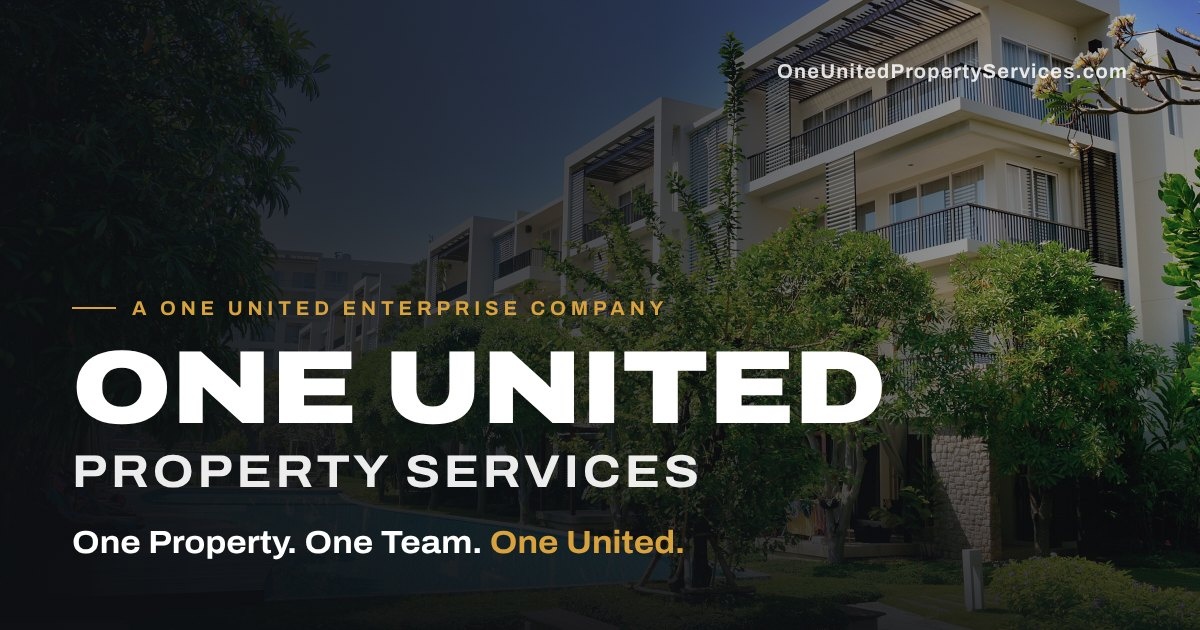
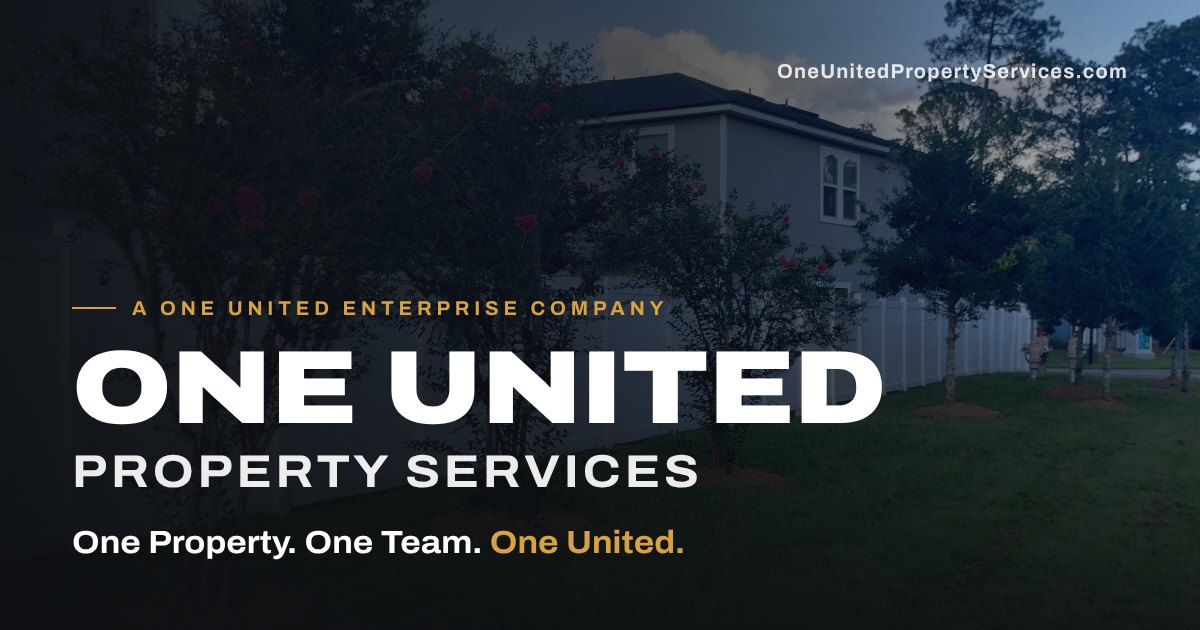
Use real Duval Landing project photos
Replace the simulated before/after pairs with six real pairs from the
July 2026 initial grounds cleanup, and use real September photos for
the homepage hero, the lawn service image, and the multifamily
property type. Photos are cropped to remove camera date stamps and
saved without EXIF/GPS metadata. The public project label stays generic
until the client approves naming the property.

The before/after slider now takes its aspect ratio from the image, and
the section and gallery layouts are adjusted for square photos.

Claude-Session: https://claude.ai/code/session_012wPi9eYFhS7NjeQacg13oa

diff --git a/src/data/beforeAfter.ts b/src/data/beforeAfter.ts
@@ -1,28 +1,32 @@
 import type { ImageMetadata } from 'astro';
-import pwBefore from '@/assets/placeholders/before-after/pressure-washing-before.jpg';
-import pwAfter from '@/assets/placeholders/before-after/pressure-washing-after.jpg';
-import paintBefore from '@/assets/placeholders/before-after/painting-before.jpg';
-import paintAfter from '@/assets/placeholders/before-after/painting-after.jpg';
-import lawnBefore from '@/assets/placeholders/before-after/landscaping-before.jpg';
-import lawnAfter from '@/assets/placeholders/before-after/landscaping-after.jpg';
-import cleanupBefore from '@/assets/placeholders/before-after/property-cleanup-before.jpg';
-import cleanupAfter from '@/assets/placeholders/before-after/property-cleanup-after.jpg';
-import turnBefore from '@/assets/placeholders/before-after/turnovers-before.jpg';
-import turnAfter from '@/assets/placeholders/before-after/turnovers-after.jpg';
+import signBefore from '@/assets/projects/duval-landing/sign-corner-before.jpg';
+import signAfter from '@/assets/projects/duval-landing/sign-corner-after.jpg';
+import curbBefore from '@/assets/projects/duval-landing/curb-corner-before.jpg';
+import curbAfter from '@/assets/projects/duval-landing/curb-corner-after.jpg';
+import utilityBefore from '@/assets/projects/duval-landing/utility-frontage-before.jpg';
+import utilityAfter from '@/assets/projects/duval-landing/utility-frontage-after.jpg';
+import islandBefore from '@/assets/projects/duval-landing/driveway-island-before.jpg';
+import islandAfter from '@/assets/projects/duval-landing/driveway-island-after.jpg';
+import frontBefore from '@/assets/projects/duval-landing/townhome-front-before.jpg';
+import frontAfter from '@/assets/projects/duval-landing/townhome-front-after.jpg';
+import fenceBefore from '@/assets/projects/duval-landing/fence-line-before.jpg';
+import fenceAfter from '@/assets/projects/duval-landing/fence-line-after.jpg';
 
 /**
- * Before & after comparisons.
+ * Before & after comparisons — real One United project photos.
  *
- * The current entries are SIMULATED placeholders (a stock "after" photo with a
- * digitally aged "before"). `placeholder: true` shows a visible disclosure label.
- * To add a real project: drop the two photos in src/assets/projects/, import them
- * here, and add an entry with `placeholder: false`.
+ * To add a project: put both photos in src/assets/projects/<project>/, import
+ * them here, and add an entry. Set `placeholder: true` only for illustrative
+ * (non-project) images; it shows a visible disclosure label.
  */
 export interface Comparison {
   id: string;
+  /** Service category, used to match comparisons to service pages. */
   category: string;
   title: string;
   caption: string;
+  /** Where/when the work was done. Shown under the slider. */
+  project: string;
   before: ImageMetadata;
   after: ImageMetadata;
   beforeAlt: string;
@@ -30,60 +34,80 @@ export interface Comparison {
   placeholder: boolean;
 }
 
+/** Shown publicly. Change to the property name only with the client's permission. */
+const PROJECT = 'Townhome community · Jacksonville, FL · Initial grounds cleanup, July 2026';
+
 export const comparisons: Comparison[] = [
   {
-    id: 'pressure-washing',
-    category: 'Pressure Washing',
-    title: 'Walkways & hardscape',
-    caption: 'Built-up grime and mildew removed from sidewalks and walkways.',
-    before: pwBefore,
-    after: pwAfter,
-    beforeAlt: 'Sidewalk and grounds darkened with grime and mildew',
-    afterAlt: 'Same sidewalk and grounds after cleaning',
-    placeholder: true,
+    id: 'driveway-island',
+    category: 'Lawn & Grounds',
+    title: 'Driveway islands',
+    caption: 'Overgrown turf islands between driveways cut back, edged, and brought down to a uniform height.',
+    project: PROJECT,
+    before: islandBefore,
+    after: islandAfter,
+    beforeAlt: 'Overgrown grass island between two townhome driveways with weeds along the concrete',
+    afterAlt: 'Same driveway island mowed short and cleanly edged',
+    placeholder: false,
   },
   {
-    id: 'painting',
-    category: 'Painting',
-    title: 'Exterior repaint',
-    caption: 'Weathered, stained facade brought back to a clean, uniform finish.',
-    before: paintBefore,
-    after: paintAfter,
-    beforeAlt: 'Building facade with stained, weathered paint',
-    afterAlt: 'Same building facade freshly painted white',
-    placeholder: true,
+    id: 'sign-corner',
+    category: 'Lawn & Grounds',
+    title: 'Entry corner',
+    caption: 'Tall grass and weeds around a street sign cleared to an even, maintained lawn.',
+    project: PROJECT,
+    before: signBefore,
+    after: signAfter,
+    beforeAlt: 'Corner lot with knee-high grass and weeds around a street sign',
+    afterAlt: 'Same corner mowed and cleared around the sign',
+    placeholder: false,
   },
   {
-    id: 'landscaping',
-    category: 'Landscaping',
-    title: 'Turf recovery',
-    caption: 'Stressed turf returned to a healthy, evenly cut lawn.',
-    before: lawnBefore,
-    after: lawnAfter,
-    beforeAlt: 'Dry, brown, patchy lawn in front of a commercial building',
-    afterAlt: 'Same lawn green and evenly cut',
-    placeholder: true,
+    id: 'curb-corner',
+    category: 'Lawn & Grounds',
+    title: 'Curb corner',
+    caption: 'Overgrowth along the curb line mowed and edged so the corner reads clean from the street.',
+    project: PROJECT,
+    before: curbBefore,
+    after: curbAfter,
+    beforeAlt: 'Overgrown grass spilling over a curved curb beside a privacy fence',
+    afterAlt: 'Same curb corner mowed with a clean edge along the curb',
+    placeholder: false,
   },
   {
-    id: 'property-cleanup',
-    category: 'Property Cleanup',
-    title: 'Community curb appeal',
-    caption: 'Driveways, walks, and frontage cleaned up across a residential community.',
-    before: cleanupBefore,
-    after: cleanupAfter,
-    beforeAlt: 'Residential street with dirty driveways and dull frontage',
-    afterAlt: 'Same residential street with clean driveways and bright frontage',
-    placeholder: true,
+    id: 'utility-frontage',
+    category: 'Lawn & Grounds',
+    title: 'Utility frontage',
+    caption: 'Weedy frontage around a utility box and walkway cut back and tidied.',
+    project: PROJECT,
+    before: utilityBefore,
+    after: utilityAfter,
+    beforeAlt: 'Weedy, overgrown lawn around a green utility box near a sidewalk',
+    afterAlt: 'Same frontage mowed with the walkway and utility box cleared',
+    placeholder: false,
   },
   {
-    id: 'turnovers',
-    category: 'Turnovers',
-    title: 'Unit make-ready',
-    caption: 'A tired, dingy unit prepared and refreshed for its next resident.',
-    before: turnBefore,
-    after: turnAfter,
-    beforeAlt: 'Dim apartment interior with dingy walls and floors',
-    afterAlt: 'Same apartment interior bright, clean, and move-in ready',
-    placeholder: true,
+    id: 'townhome-front',
+    category: 'Lawn & Grounds',
+    title: 'Townhome frontage',
+    caption: 'Front lawns and driveway islands restored to a consistent, cared-for look.',
+    project: PROJECT,
+    before: frontBefore,
+    after: frontAfter,
+    beforeAlt: 'Townhome front with an overgrown grass island and weeds along the driveway',
+    afterAlt: 'Same townhome front with mowed, edged lawn areas',
+    placeholder: false,
+  },
+  {
+    id: 'fence-line',
+    category: 'Lawn & Grounds',
+    title: 'Fence line',
+    caption: 'An overgrown common area along the privacy fence cleaned up and mowed.',
+    project: PROJECT,
+    before: fenceBefore,
+    after: fenceAfter,
+    beforeAlt: 'Overgrown common area along a white privacy fence with litter and a trash bin',
+    afterAlt: 'Same fence-line common area mowed and cleaned up',
+    placeholder: false,
   },
 ];

diff --git a/src/data/propertyTypes.ts b/src/data/propertyTypes.ts
@@ -1,6 +1,6 @@
 import type { ImageMetadata } from 'astro';
 import apartments from '@/assets/placeholders/apartment-palms.jpg';
-import multifamily from '@/assets/placeholders/multifamily-waterfront.jpg';
+import multifamily from '@/assets/projects/duval-landing/townhome-lawn.jpg';
 import commercial from '@/assets/placeholders/commercial-building.jpg';
 import retail from '@/assets/placeholders/retail-store.jpg';
 import office from '@/assets/placeholders/office-palms.jpg';
@@ -37,7 +37,7 @@ export const propertyTypes: PropertyType[] = [
       'From townhome rows to garden-style buildings, consistent exterior care keeps every building looking like part of one well-run property.',
     needs: ['Exterior painting', 'Pressure washing', 'Make-ready', 'Routine maintenance'],
     image: multifamily,
-    imageAlt: 'Multifamily residences with palm trees along a calm waterway',
+    imageAlt: 'Townhome with a freshly mowed front lawn and edged driveway in Jacksonville',
   },
   {
     id: 'commercial-buildings',

diff --git a/src/data/services.ts b/src/data/services.ts
@@ -1,5 +1,5 @@
 import type { ImageMetadata } from 'astro';
-import lawn from '@/assets/placeholders/lawn-commercial.jpg';
+import lawn from '@/assets/projects/duval-landing/lawn-tree-line.jpg';
 import pressure from '@/assets/placeholders/sidewalk-grounds.jpg';
 import paint from '@/assets/placeholders/paint-roller.jpg';
 import turnover from '@/assets/placeholders/turnover-interior.jpg';
@@ -55,7 +55,7 @@ export const services: Service[] = [
     ],
     idealFor: ['Apartment communities', 'Office parks', 'Retail centers', 'HOA common areas'],
     image: lawn,
-    imageAlt: 'Freshly cut, healthy green lawn in front of a modern commercial building',
+    imageAlt: 'Mowed roadside lawn with fresh mulch rings around a row of trees along a community fence',
     seoTitle: 'Commercial Lawn Maintenance & Grounds Care',
     seoDescription:
       'Recurring commercial lawn maintenance and grounds care for apartment communities, multifamily, and commercial properties in Jacksonville and Northeast Florida.',

diff --git a/README.md b/README.md
@@ -52,8 +52,8 @@ Nothing below was invented. Every missing fact is shown on the site with a visib
 - **Phone, email, business address, office hours:** `src/data/site.ts`. Set `value`, add an `href` (`tel:` / `mailto:`), and set `placeholder: false`. Phone and email are then added to the schema.org data automatically.
 - **Social profiles:** `site.social` in `src/data/site.ts`.
 - **Company story:** the placeholder block on `/about/` (`src/pages/about.astro`).
-- **Photography:** everything in `src/assets/placeholders/` is free stock photography from [Unsplash](https://unsplash.com/license) and stands in for real company photos.
-- **Before/after images:** the current pairs are **simulated**. Each “before” was made by digitally aging a stock “after” photo with `scripts/make-placeholder-befores.py`, and the site labels them that way. To add a real project, put both photos in `src/assets/projects/`, import them in `src/data/beforeAfter.ts`, and set `placeholder: false`.
+- **Photography:** real project photos live in `src/assets/projects/` (currently the Duval Landing grounds work: the hero, the lawn service image, the multifamily property type, and all before/after pairs). Everything still in `src/assets/placeholders/` is free stock photography from [Unsplash](https://unsplash.com/license) standing in for pressure washing, painting, turnovers, maintenance, and the other property types until real photos are provided.
+- **Before/after projects:** each comparison shows a public `project` label (`src/data/beforeAfter.ts`). It currently reads "Townhome community · Jacksonville, FL". Name the property there only with the client's permission. Project photos were cropped to remove camera date stamps, and their EXIF/GPS metadata was stripped.
 - **Legal pages:** fill in the bracketed items and have counsel review them.
 - **Scope lists** in `services.ts`: confirm each item matches what the company actually offers.
 
